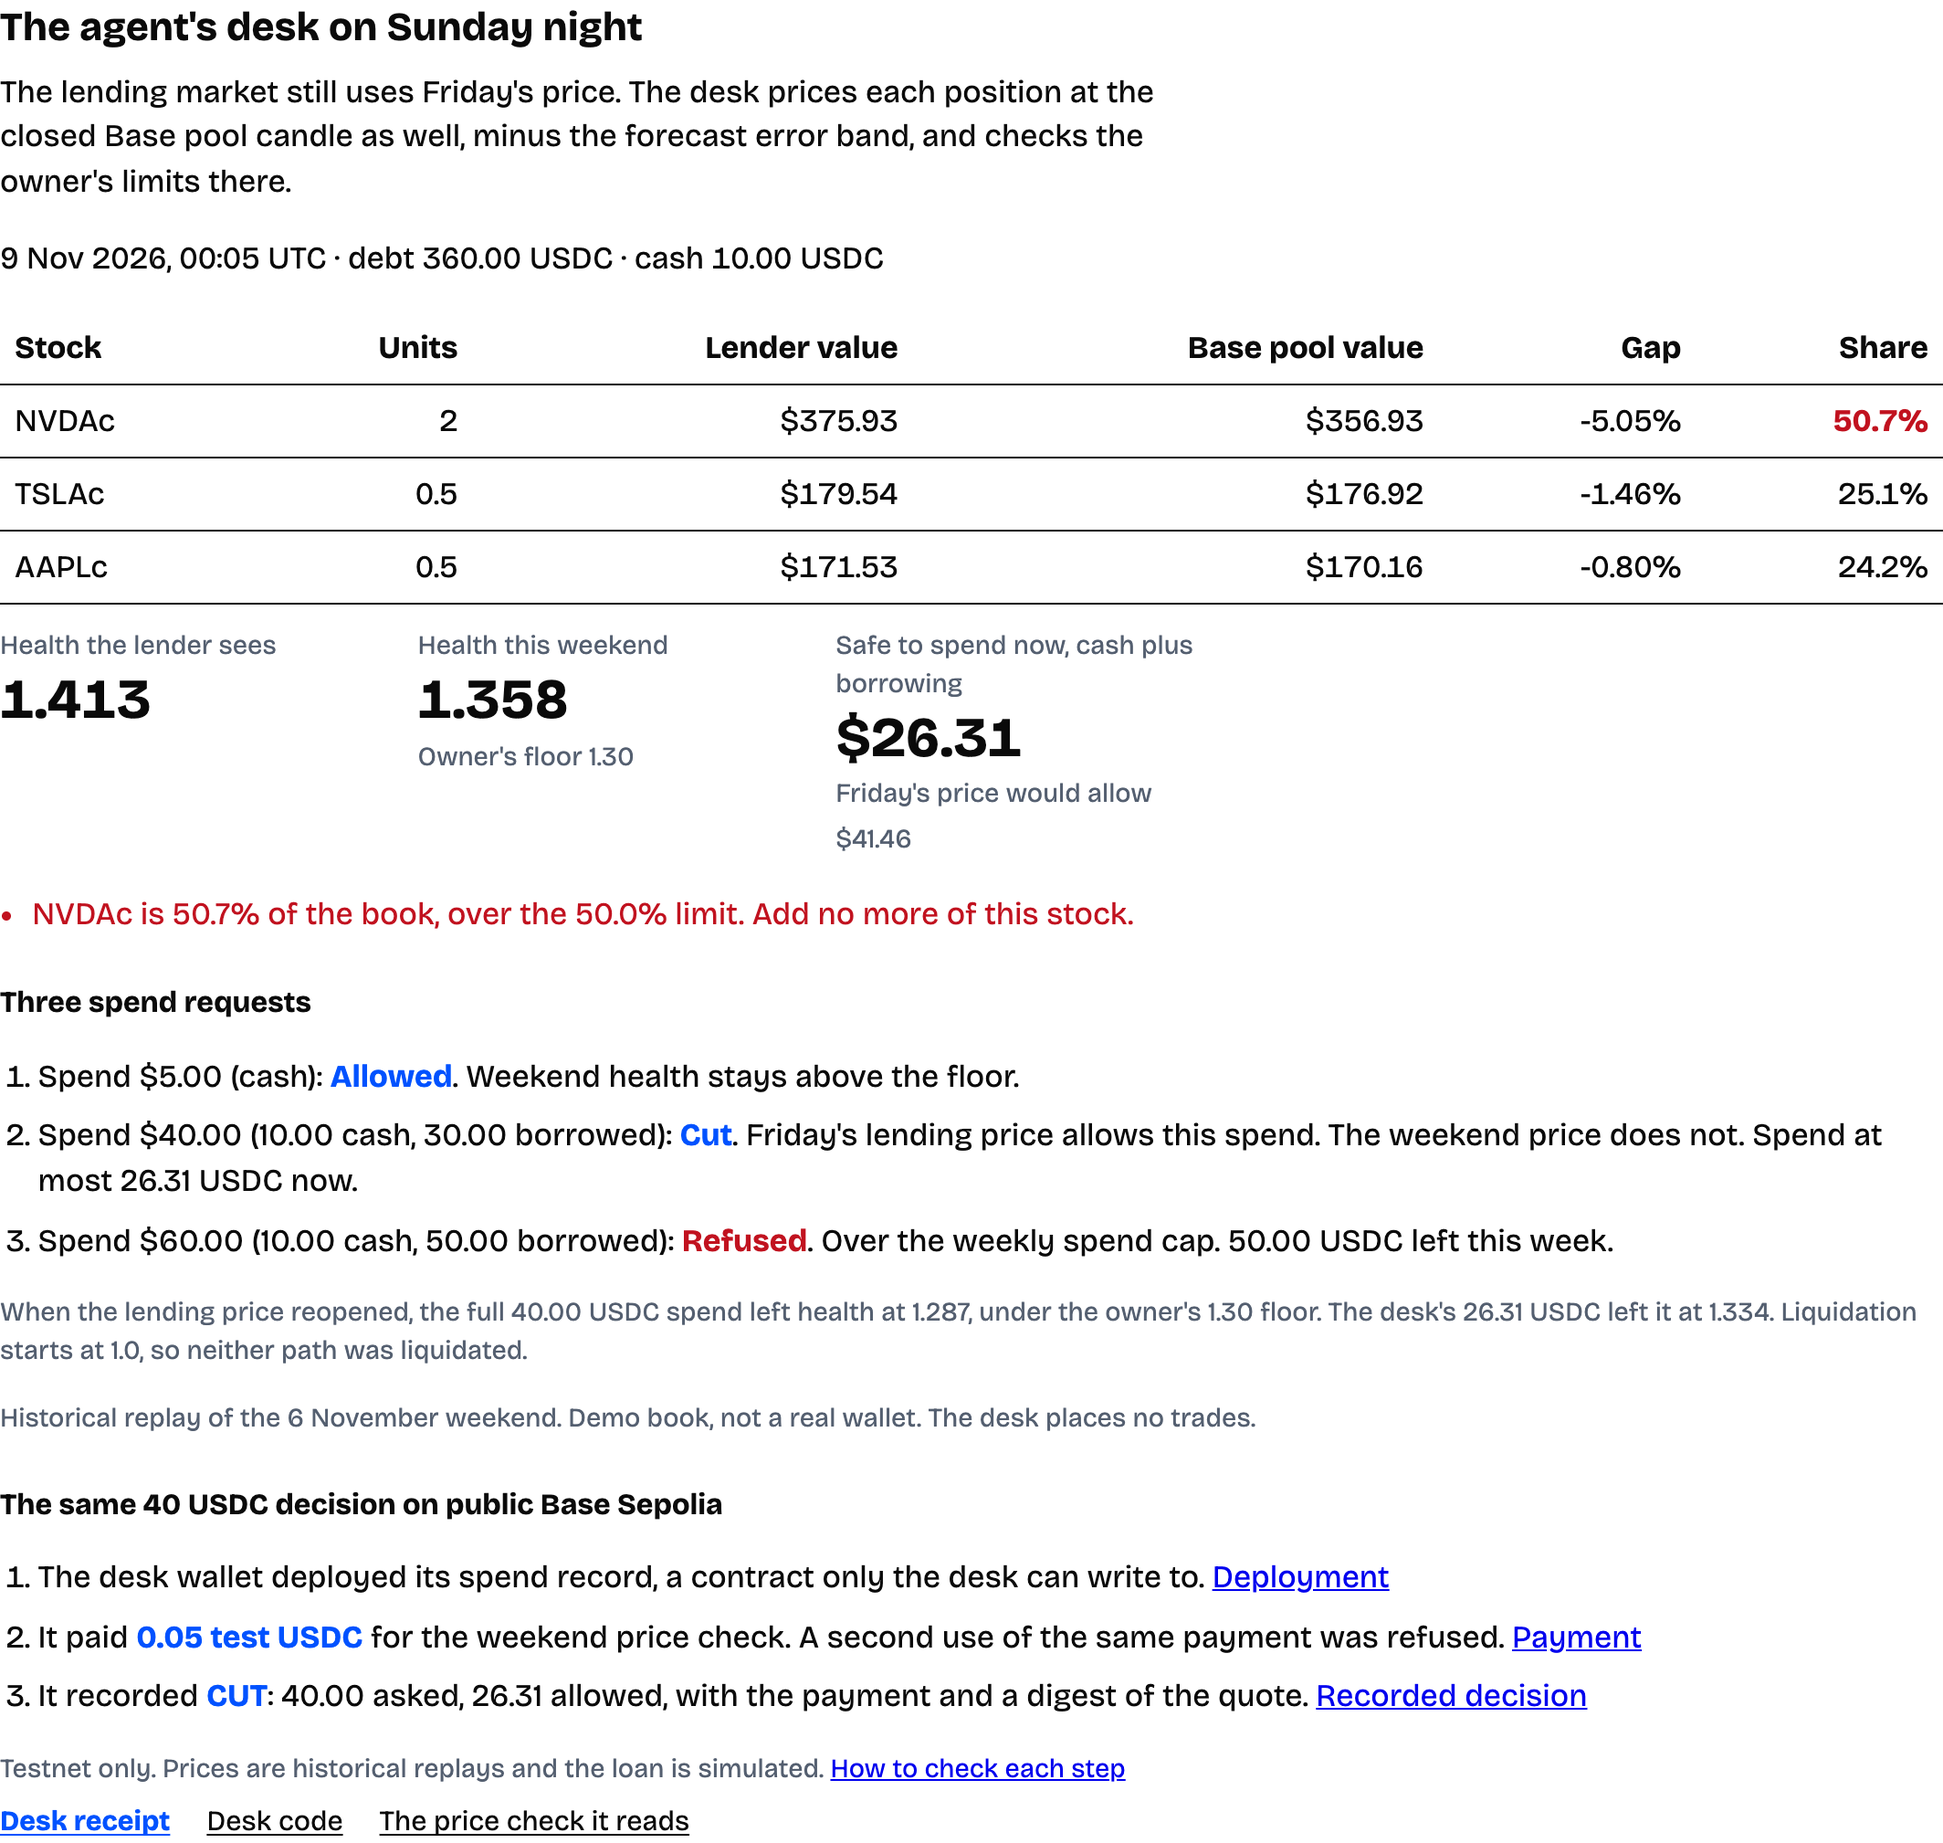
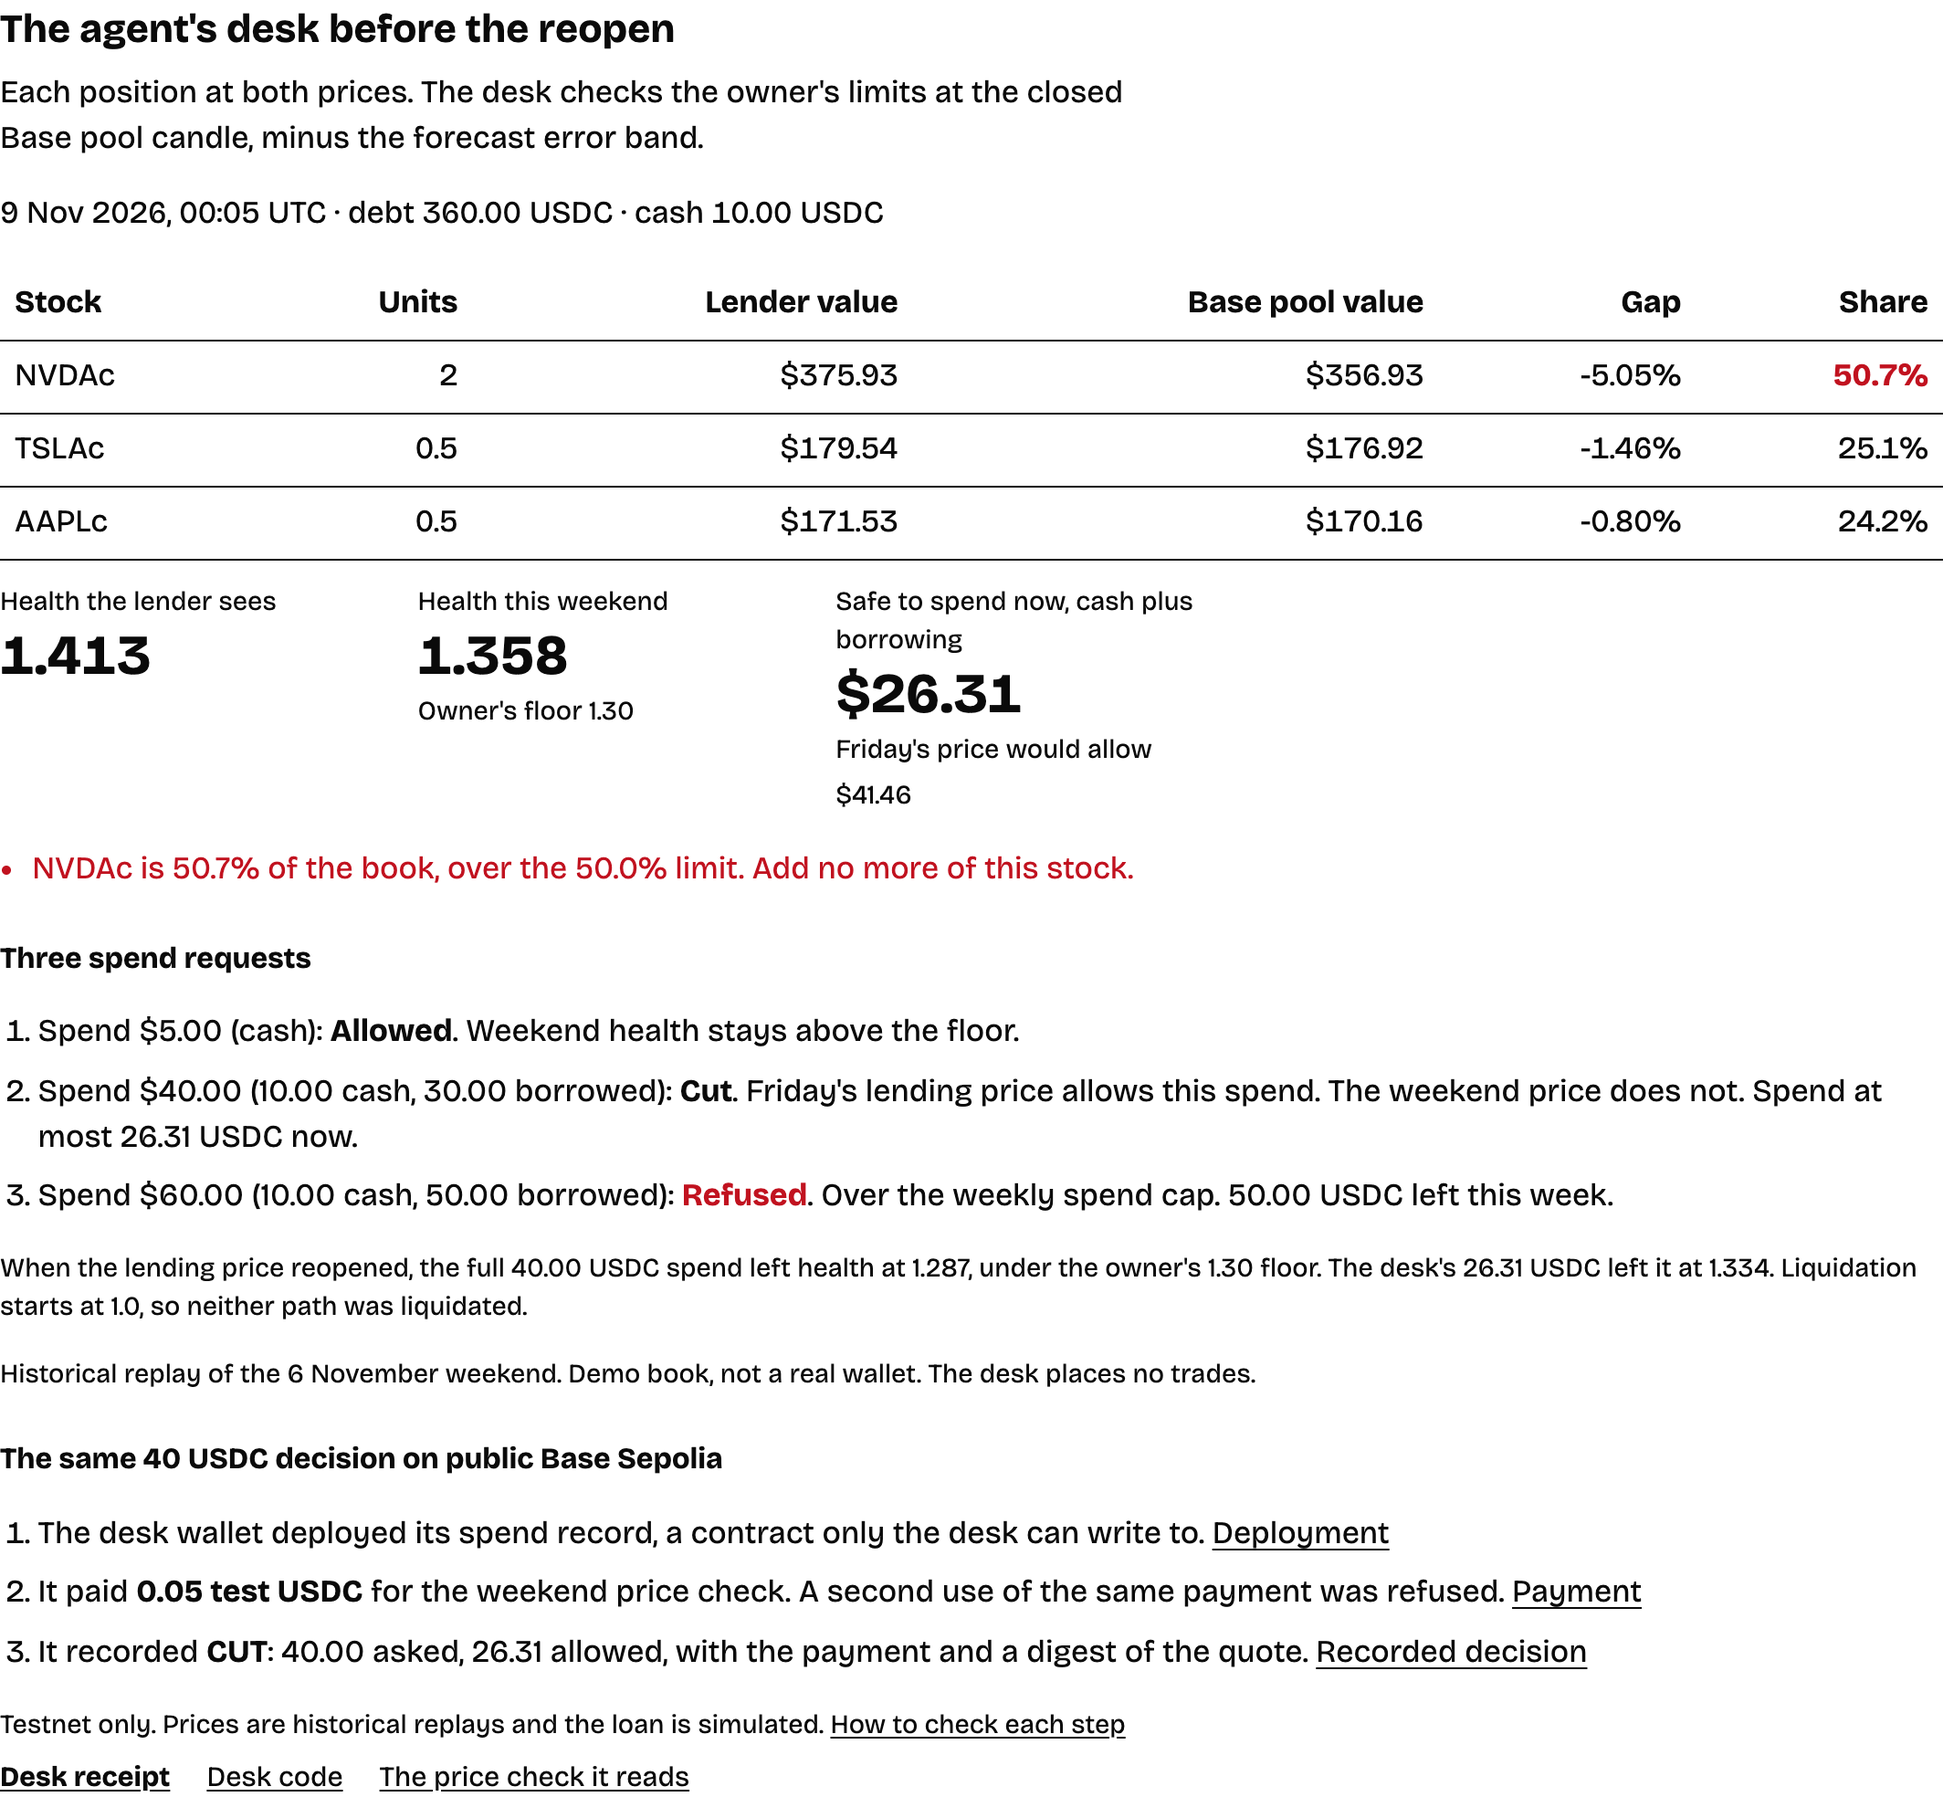
Judge's first screen: the request, the lender's yes and the desk's cut
The problem, the 40 USDC request, the lender's answer and the desk's CUT now
sit above the fold at 1280x720 and 390x660, filled from the receipt with
reserved space while loading and a clear failed-load state.
DESIGN.md fixes: two typefaces (code was generic monospace), no grey text,
one accent on the decision, links in ink, motion tokens, written reason for
the one long replay animation. README step 1 said Sunday; 9 Nov 00:05 UTC is
a Monday (Sunday evening in New York).

Claude-Session: https://claude.ai/code/session_01RjVuZAeQnwRfcxmaRT3pvg

diff --git a/index.html b/index.html
@@ -11,12 +11,22 @@
   <main class="page">
     <header class="intro">
       <h1>Stock Desk for agents</h1>
-      <p class="lede">
-        An agent that keeps its savings in tokenized stocks on Base asks the desk before every spend. The desk shows its positions, its exposure and its real weekend health, then allows the spend, cuts it to the safe amount, or refuses.
+      <p class="lede" data-testid="problem">
+        Over a weekend, the lender still prices tokenized stocks at Friday's close. An agent that borrows against them on Base can be told yes to a spend it cannot afford. The desk checks every spend at the Base pool price first.
       </p>
-      <section aria-labelledby="offline-heading">
-        <h2 id="offline-heading">Verify offline</h2>
-        <p class="section-note">From the repository root with Python 3.10 or later, run <code>python3 -B proof/verify_judge.py</code> to rebuild the forecast and verify the saved replay receipts.</p>
+      <section class="ask" aria-label="One spend request, two answers">
+        <p class="ask-request" data-testid="agent-request"><span id="ask-when">Before the lending price reopens</span>, the agent asks to spend <b class="num" id="ask-amount"></b><span id="ask-split"></span>.</p>
+        <div class="answers">
+          <div class="answer" data-testid="lender-answer">
+            <p class="answer-who">The lender, at Friday's price</p>
+            <p class="answer-says"><b id="ask-lender-word"></b> <span class="num" id="ask-lender"></span></p>
+          </div>
+          <div class="answer answer-desk" data-testid="decision">
+            <p class="answer-who">The desk, at the Base pool price</p>
+            <p class="answer-says"><b class="answer-action" id="ask-action"></b> <span class="num" id="ask-allowed"></span></p>
+            <p class="answer-why" id="ask-why" role="status"></p>
+          </div>
+        </div>
       </section>
       <nav class="judge-links" aria-label="Explore the demo">
         <a href="https://github.com/Morkeeth/collateral-card-demo#verify-offline">Offline check instructions</a>
@@ -31,8 +41,8 @@
 
 
     <section class="desk" data-testid="desk" aria-labelledby="desk-heading">
-      <h2 id="desk-heading">The agent's desk on Sunday night</h2>
-      <p class="section-note">The lending market still uses Friday's price. The desk prices each position at the closed Base pool candle as well, minus the forecast error band, and checks the owner's limits there.</p>
+      <h2 id="desk-heading">The agent's desk before the reopen</h2>
+      <p class="section-note">Each position at both prices. The desk checks the owner's limits at the closed Base pool candle, minus the forecast error band.</p>
       <p id="desk-status" role="status">Loading desk receipt…</p>
       <div id="desk-result" hidden>
         <p id="desk-observation" class="desk-observation"></p>
@@ -55,7 +65,7 @@
         <h3 id="onchain-heading">The same 40 USDC decision on public Base Sepolia</h3>
         <ol class="desk-checks onchain-steps" data-testid="onchain">
           <li>The desk wallet deployed its spend record, a contract only the desk can write to. <a href="https://base-sepolia.blockscout.com/tx/0x432a35d82a008b510d21a2586bca0faa1cfc0574c11ab7f2b746c3ee898ab385">Deployment</a></li>
-          <li>It paid <b>0.05 test USDC</b> for the weekend price check. A second use of the same payment was refused. <a href="https://base-sepolia.blockscout.com/tx/0x17e720bc2436cde2f4162902da4382e97202644ff009b1686b3817dc3bcea7bf">Payment</a></li>
+          <li>It paid <strong>0.05 test USDC</strong> for the weekend price check. A second use of the same payment was refused. <a href="https://base-sepolia.blockscout.com/tx/0x17e720bc2436cde2f4162902da4382e97202644ff009b1686b3817dc3bcea7bf">Payment</a></li>
           <li>It recorded <b>CUT</b>: 40.00 asked, 26.31 allowed, with the payment and a digest of the quote. <a href="https://base-sepolia.blockscout.com/tx/0xccbaea0f7e4c435a83d0ef4afadf6f6023c8c9b233f0dc686dbebf4418766f49">Recorded decision</a></li>
         </ol>
         <p class="quote-provenance">Testnet only. Prices are historical replays and the loan is simulated. <a href="https://github.com/Morkeeth/collateral-card-demo#judge-walkthrough-from-the-agents-request-to-the-explorer">How to check each step</a></p>
@@ -65,6 +75,11 @@
           <a href="#paid-quote-heading">The price check it reads</a>
         </div>
       </div>
+    </section>
+
+    <section class="offline" aria-labelledby="offline-heading">
+      <h2 id="offline-heading">Verify offline</h2>
+      <p class="section-note">From the repository root with Python 3.10 or later, run <code>python3 -B proof/verify_judge.py</code> to rebuild the forecast and verify the saved replay receipts.</p>
     </section>
 
     <section class="paid-quote" aria-labelledby="paid-quote-heading">

diff --git a/style.css b/style.css
@@ -29,6 +29,10 @@
   --liq: #c1121f;
   --pad: clamp(0.75rem, 2.2vw, 1.75rem);
   --max: 1120px;
+  --line: #d6dbe4;
+  /* Motion tokens (DESIGN.md section 8). The page has no CSS transitions today; any added must use these. */
+  --ease-out: cubic-bezier(0.23, 1, 0.32, 1);
+  --ease-in-out: cubic-bezier(0.77, 0, 0.175, 1);
 }
 
 *,
@@ -124,8 +128,18 @@ h3 {
 }
 
 .judge-links a:first-child {
-  color: var(--base);
   font-weight: 700;
+}
+
+a {
+  color: var(--ink);
+  text-underline-offset: 0.15em;
+}
+
+code {
+  font-family: "IBM Plex Mono", monospace;
+  font-weight: 500;
+  font-size: 0.92em;
 }
 
 .view-replay .rule-link {
@@ -377,20 +391,20 @@ input[type="number"]:focus-visible,
 }
 
 .paid-quote {
-  border-block: 1px solid #d6dbe4;
+  border-block: 1px solid var(--line);
   padding: 1.15rem 0;
   margin: 1.35rem 0 1.75rem;
 }
 
 .paid-quote summary {
-  color: var(--base);
+  color: var(--ink);
   cursor: pointer;
   font-weight: 700;
   width: fit-content;
 }
 
 .paid-quote summary span {
-  color: #545f70;
+  color: var(--ink);
   font-size: 0.875rem;
   font-weight: 400;
   margin-inline-start: 0.7rem;
@@ -410,7 +424,7 @@ input[type="number"]:focus-visible,
 
 .quote-prices dt, .quote-prices small, .quote-provenance {
   font-size: 0.9rem;
-  color: #545f70;
+  color: var(--ink);
 }
 
 .quote-prices dd {
@@ -436,10 +450,37 @@ input[type="number"]:focus-visible,
 .desk-breaches { padding-left: 1.1rem; color: var(--liq); }
 .desk-checks { padding-left: 1.3rem; }
 .desk-checks li { margin: 0.5rem 0; }
-.desk-checks b { color: var(--base); }
+.desk-checks b { color: var(--ink); }
 .desk-checks b.refuse { color: var(--liq); }
 
 @media (max-width: 560px) {
   .desk-table th:nth-child(2), .desk-table td:nth-child(2) { display: none; }
   .desk-table th, .desk-table td { padding: 0.4rem 0.25rem; font-size: 0.85rem; white-space: normal; }
+}
+
+/* First screen: one spend request, the lender's answer and the desk's answer, side by side. */
+.lede { max-width: 44rem; }
+.ask { margin: 1rem 0 1.1rem; }
+.ask-request { margin: 0 0 0.6rem; font-size: 1.15rem; font-weight: 700; max-width: 44rem; }
+.answers { display: grid; grid-template-columns: 1fr 1fr; gap: 0; max-width: 44rem; border-block: 1px solid var(--ink); }
+.answer { padding: 0.7rem 1rem 0.8rem 0; }
+.answer-desk { padding-left: 1rem; border-left: 1px solid var(--ink); }
+.answer p { margin: 0; }
+.answer-who { font-size: 0.95rem; }
+.answer-says { font-size: clamp(1.35rem, 3.6vw, 1.75rem); font-weight: 700; line-height: 1.2; margin-top: 0.15rem; }
+.ask .num, .answer-says .num { font-family: "Bricolage Grotesque", sans-serif; font-weight: 700; }
+.answer-action { color: var(--base); }
+.answer-why { font-size: 0.95rem; margin-top: 0.35rem; max-width: 24rem; }
+.num:empty { display: inline-block; min-width: 4.5ch; height: 0.9em; background: var(--line); vertical-align: -0.05em; }
+.answer-why:empty { min-height: 2.6em; }
+.ask-failed .ask-request, .ask-failed .answer-says { display: none; }
+.answer-says b:empty { display: inline-block; min-width: 5ch; height: 0.9em; background: var(--line); }
+.ask-failed .answer-why { color: var(--liq); }
+.offline { margin-top: 2rem; }
+
+@media (max-width: 560px) {
+  .answers { grid-template-columns: 1fr; }
+  .answer { padding: 0.55rem 0; }
+  .answer-desk { padding-left: 0; border-left: 0; border-top: 1px solid var(--ink); }
+  .ask-request { font-size: 1.05rem; }
 }

diff --git a/desk.js b/desk.js
@@ -14,7 +14,30 @@
     row.append(td);
   }
 
+  const weekday = new Intl.DateTimeFormat("en-GB", { weekday: "long", timeZone: "UTC" });
+  const set = (id, text) => { document.getElementById(id).textContent = text; };
+
+  // The first screen: one spend request and the two answers to it, all read from the receipt.
+  function ask(r) {
+    const c = r.checks.find((x) => x.action === "CUT") || r.checks[0];
+    const when = new Date(c.as_of_utc || r.desk.as_of_utc);
+    set("ask-when", `On ${weekday.format(when)} ${day.format(when)} UTC, before the lending price reopens`);
+    set("ask-amount", money.format(c.amount_usd));
+    set("ask-split", Number(c.borrow_usd) > 0
+      ? `, ${money.format(c.from_cash_usd)} from cash and ${money.format(c.borrow_usd)} borrowed` : " from cash");
+    set("ask-lender-word", c.lender_would_allow ? "Yes, up to" : "No, at most");
+    set("ask-lender", money.format(r.desk.spend.lender_would_allow_usd));
+    const verbs = { ALLOW: "Allowed", CUT: "Cut to", REFUSE: "Refused" };
+    set("ask-action", verbs[c.action] || c.action);
+    set("ask-allowed", c.action === "REFUSE" ? "" : money.format(c.allowed_usd));
+    const a = r.after_reopen;
+    set("ask-why", a && a.floor_breached_without_desk
+      ? `When the price reopened, the full ${money.format(a.requested_usd)} would have put the loan under the owner's safety floor. The cut amount kept it above.`
+      : c.reason);
+  }
+
   function show(r) {
+    ask(r);
     const d = r.desk;
     document.getElementById("desk-observation").textContent =
       `${day.format(new Date(d.as_of_utc))} UTC · debt ${d.debt_usd} USDC · cash ${d.cash_usd} USDC`;
@@ -66,5 +89,10 @@
   fetch("demo/desk.json")
     .then((response) => { if (!response.ok) throw new Error(); return response.json(); })
     .then(show)
-    .catch(() => { status.textContent = "The desk receipt could not load. Reload the page to retry."; });
+    .catch(() => {
+      const msg = "The desk receipt could not load. Reload the page to retry.";
+      status.textContent = msg;
+      document.querySelector(".ask").classList.add("ask-failed");
+      set("ask-why", msg);
+    });
 })();

diff --git a/app.js b/app.js
@@ -749,6 +749,10 @@
       setReveal(1);
       return;
     }
+    // Written exception to the 300ms product UI limit (DESIGN.md section 8): this is the replay of a
+    // recorded weekend, a story animation the reader asks for with the Replay button. The sweep is the
+    // content (Friday's frozen price against the hourly pool closes), so it runs at reading speed.
+    // It never runs on load, it uses an ease-out curve, and prefers-reduced-motion skips it.
     var start = null;
     var duration = 2200;
     function tick(ts) {

diff --git a/README.md b/README.md
@@ -15,7 +15,7 @@ On the saved weekend the lender view shows health 1.413 and the weekend view 1.3
 
 Five steps, about five minutes. Steps 1 and 2 run on your machine. Steps 3 to 5 are on public Base Sepolia (chain id 84532) and need only a browser. Every command in this section was run on 25 November 2026. The outputs shown are real; the JSON in step 1 is reflowed onto fewer lines.
 
-**1. The agent asks before it spends.** It is Sunday 9 November 2026, 00:05 UTC. The agent wants to spend 40 USDC on a report.
+**1. The agent asks before it spends.** It is Monday 9 November 2026, 00:05 UTC, Sunday evening in New York, before the lending price reopens. The agent wants to spend 40 USDC on a report.
 
 ```sh
 python3 -B proof/run_desk.py --serve 8851
@@ -34,7 +34,9 @@ curl -s "http://127.0.0.1:8851/desk/spend?usd=40"
 
 The lender would say yes. The desk says spend at most 26.31.
 
-![The desk on Sunday night: positions, both health views and the CUT answer](docs/walkthrough/1-desk-cut.png)
+![The first screen: one spend request, the lender's yes and the desk's cut](docs/walkthrough/0-first-screen.png)
+
+![The desk before the reopen: positions, both health views and the CUT answer](docs/walkthrough/1-desk-cut.png)
 
 **2. The desk pays for the weekend price it used.** The price check is an x402 endpoint. The first request gets HTTP 402. The desk signs a 0.05 test USDC authorization, retries and gets the dated quote with HTTP 200. Sending the same authorization again gets 402 with "authorization already used". These three HTTP answers happened on this machine and are saved in the [public run receipt](demo/public-sepolia.json) under `paid_check`. Only the payment itself is on chain (step 4).
 
